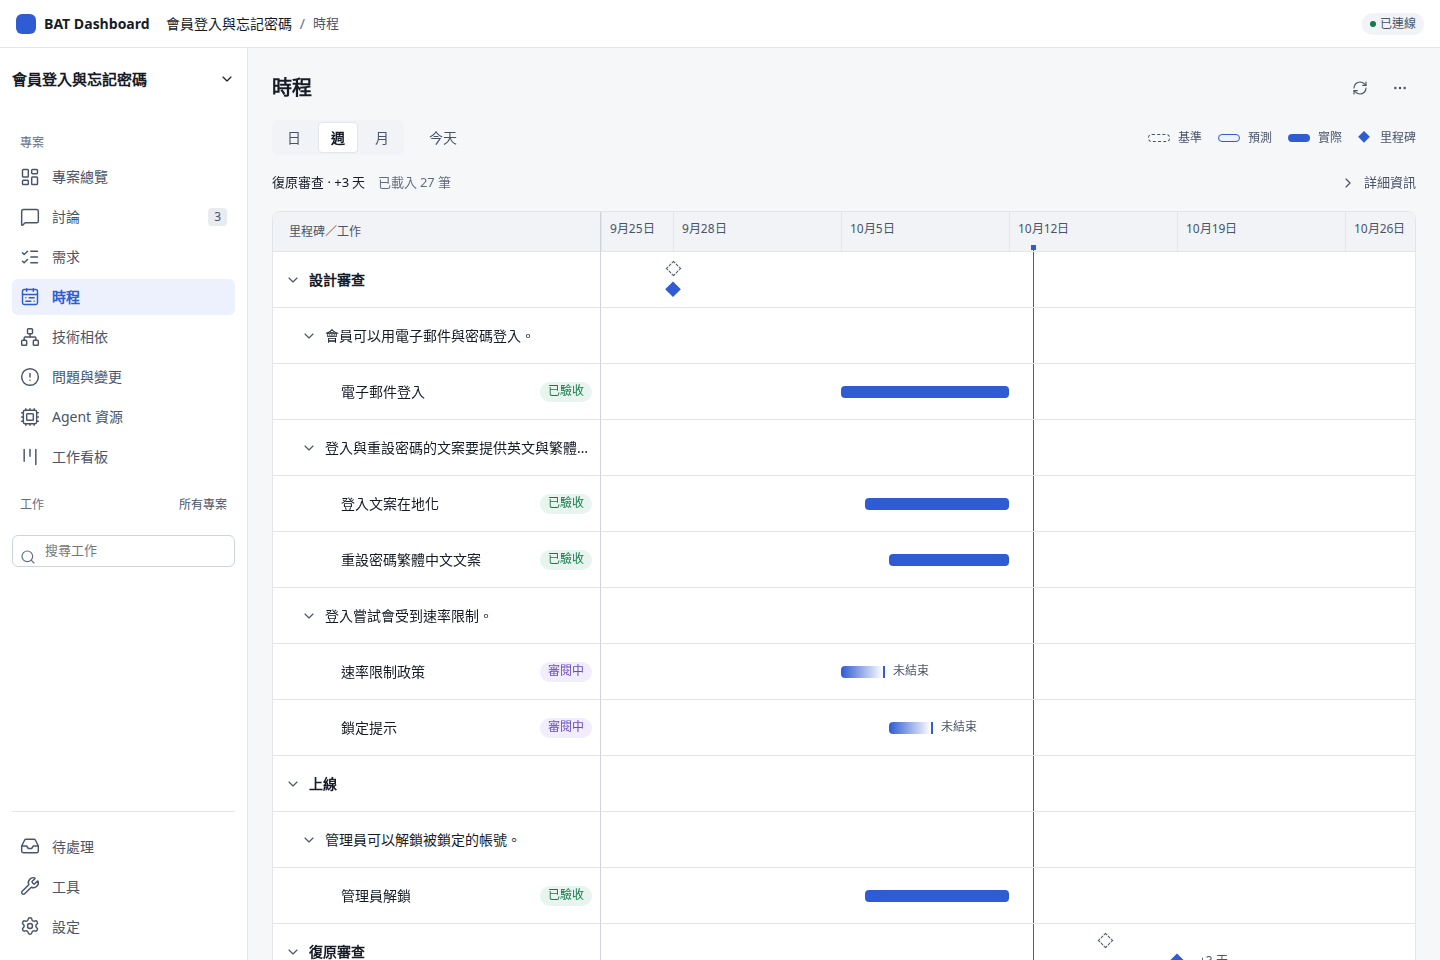
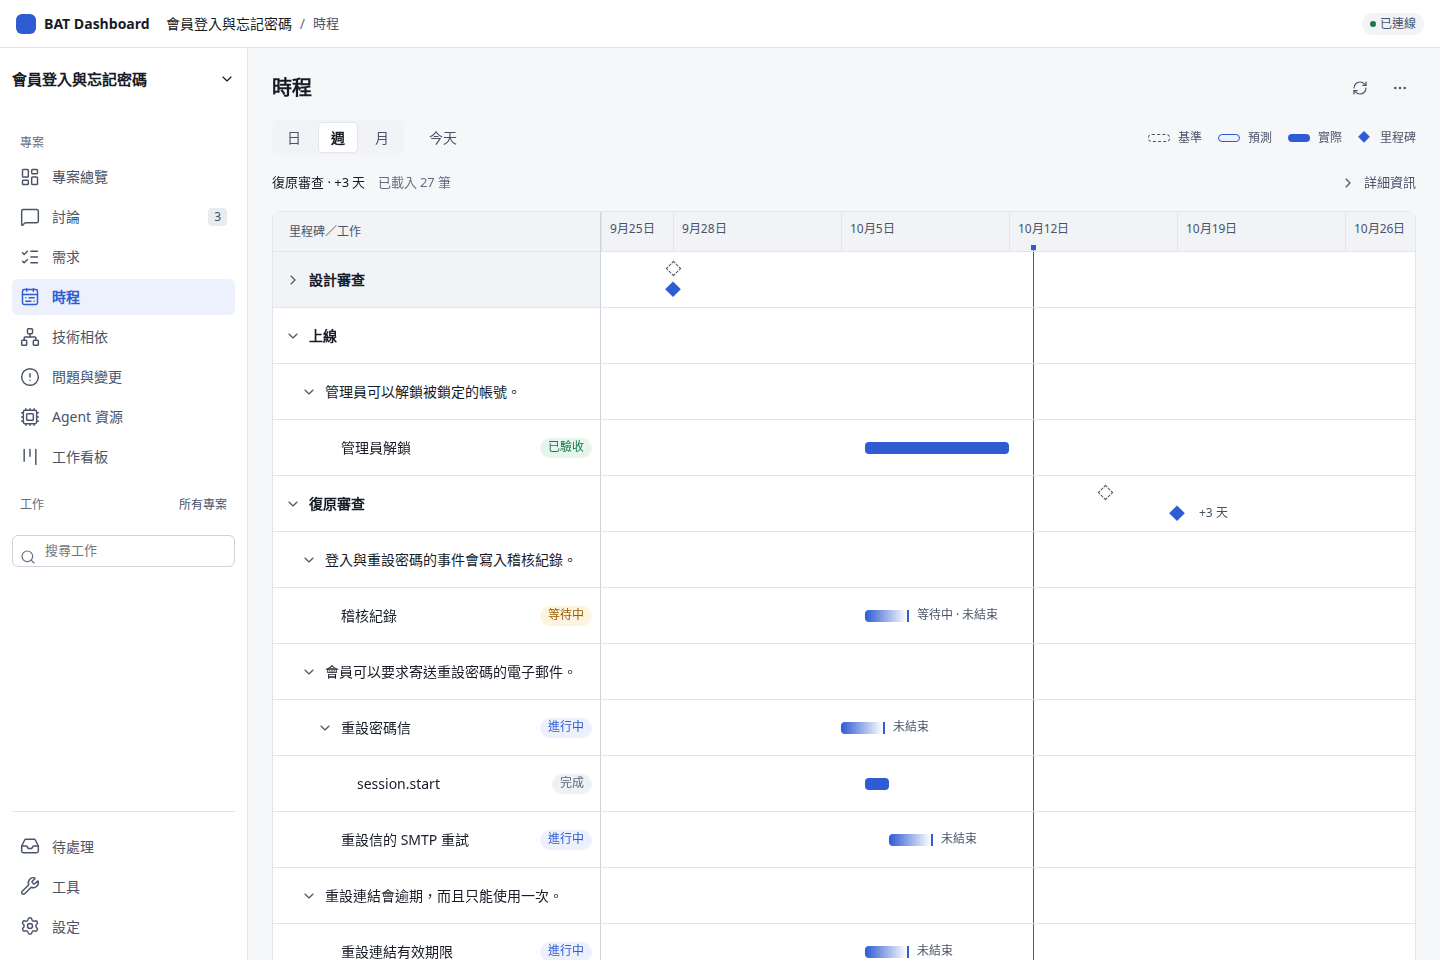
docs: retain project context in the reviewed gallery

diff --git a/scripts/check_product_site.py b/scripts/check_product_site.py
@@ -96,6 +96,7 @@ for path in SITE.glob("*.html"):
 for path in [
     ROOT / "README.md",
     ROOT / "README.zh-TW.md",
+    ROOT / "CHANGELOG.md",
     ROOT / "docs/getting-started.md",
     ROOT / "docs/getting-started.zh-TW.md",
     ROOT / "docs/windows.md",

diff --git a/site/images/README.md b/site/images/README.md
@@ -13,7 +13,7 @@ The [progress report](../../docs/product/progress-2026-10-14.md) separates those
 | `discussions-en.png`, `discussions-zh.png` | Discussion opened from the Overview blocker through its Discuss link. Automatic title, original context chip and a reviewable proposal; the proposal is not adopted and does not authorize work. |
 | `requirements-en.png`, `requirements-zh.png` | RTM with email sign-in expanded and its bound work inspector open. Requirement acceptance, PR merge and deployment remain separate evidence. |
 | `issues-en.png`, `issues-zh.png` | Both register pages loaded, showing risks, issues, an action, a proposed change and a decision. Open records remain open. |
-| `schedule-en.png`, `schedule-zh.png` | Recorded baseline, forecast and actual dates. Recovery review is forecast three days late; undated session attempts remain unscheduled. |
+| `schedule-en.png`, `schedule-zh.png` | Recorded baseline, forecast and actual dates, with Design review collapsed through its normal control. Recovery review is forecast three days late; undated session attempts remain unscheduled. |
 | `dependencies-en.png`, `dependencies-zh.png` | Pinned inventory graph with its Partial label and evidence legend. The graph is bounded; missing versions, ownership and freshness remain unknown. |
 | `board-en.png`, `board-zh.png` | Twelve synthetic work items across five workflow lanes. Waiting and review states remain distinct from accepted content and delivery. |
 | `session-en.png`, `session-zh.png` | Manual BAT session on `demo-host`, with its read-only transcript. There are no send, answer or interrupt controls. |
